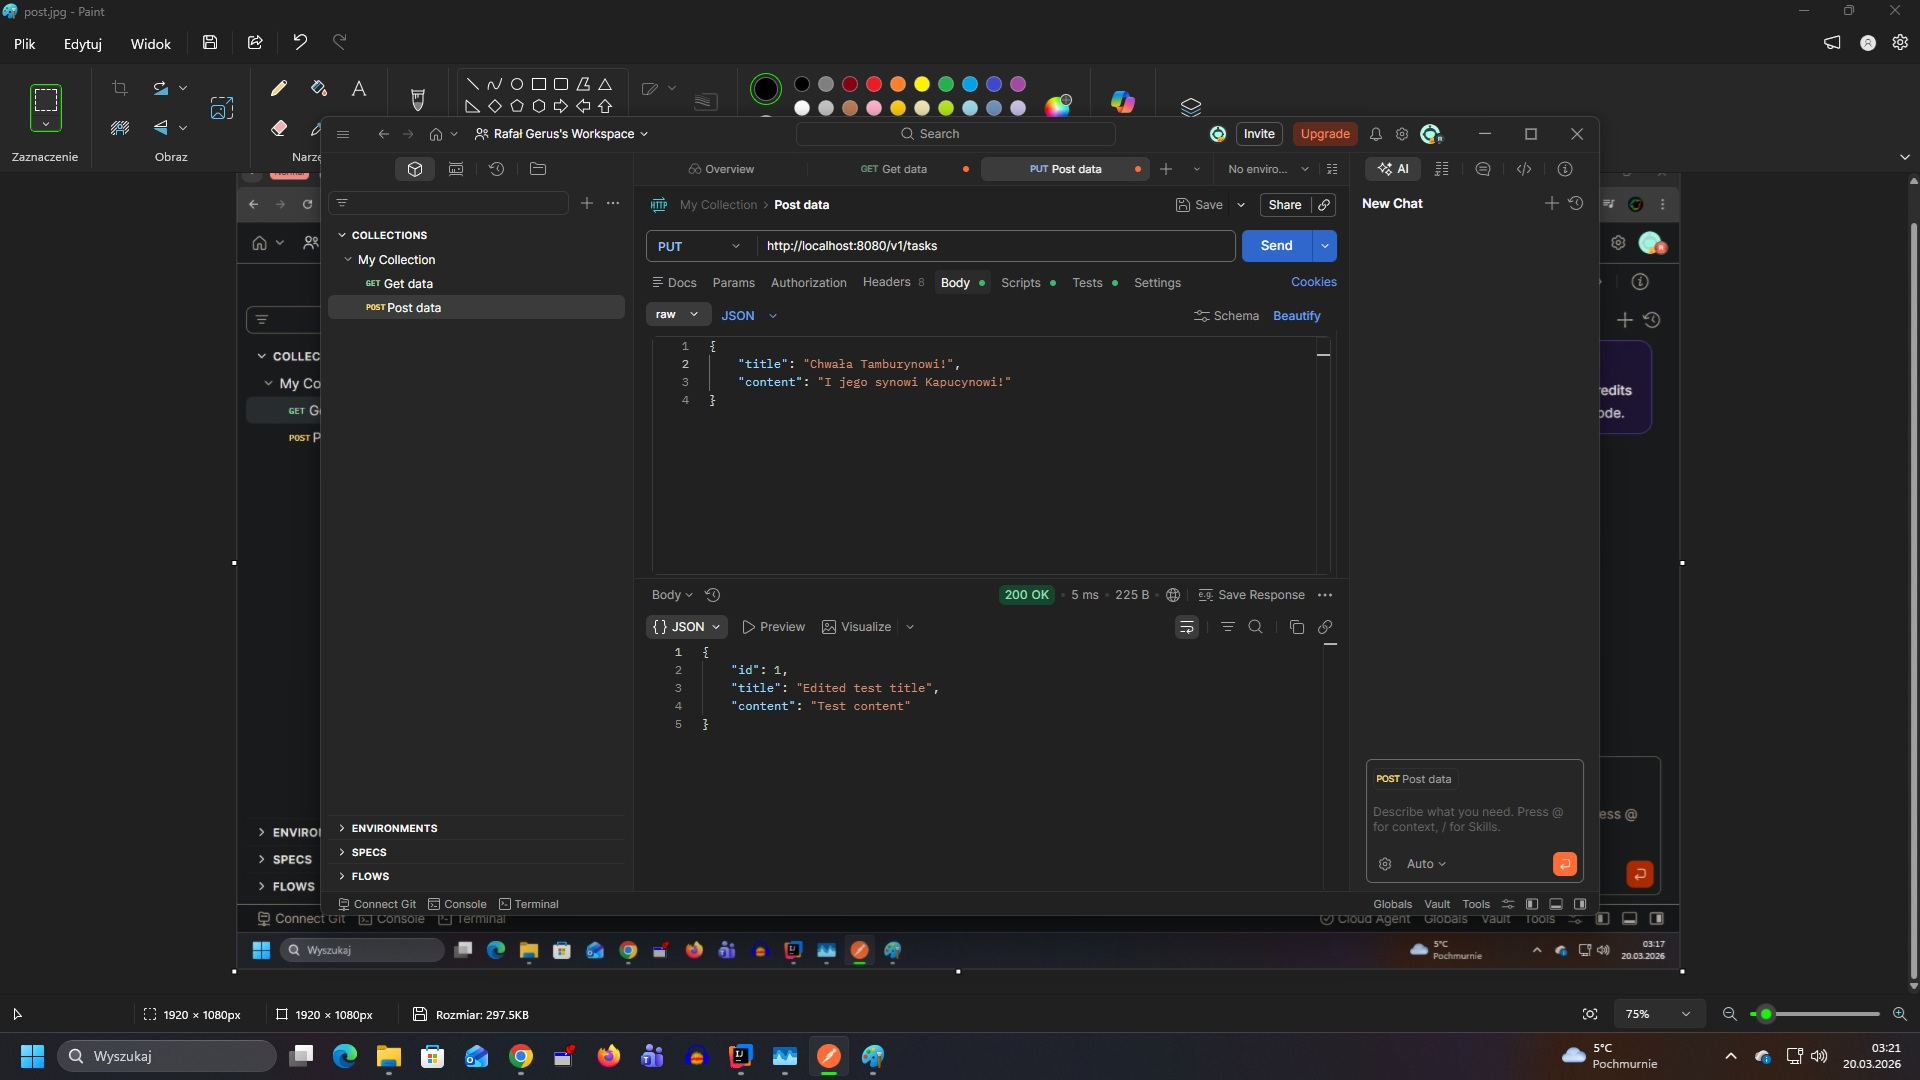
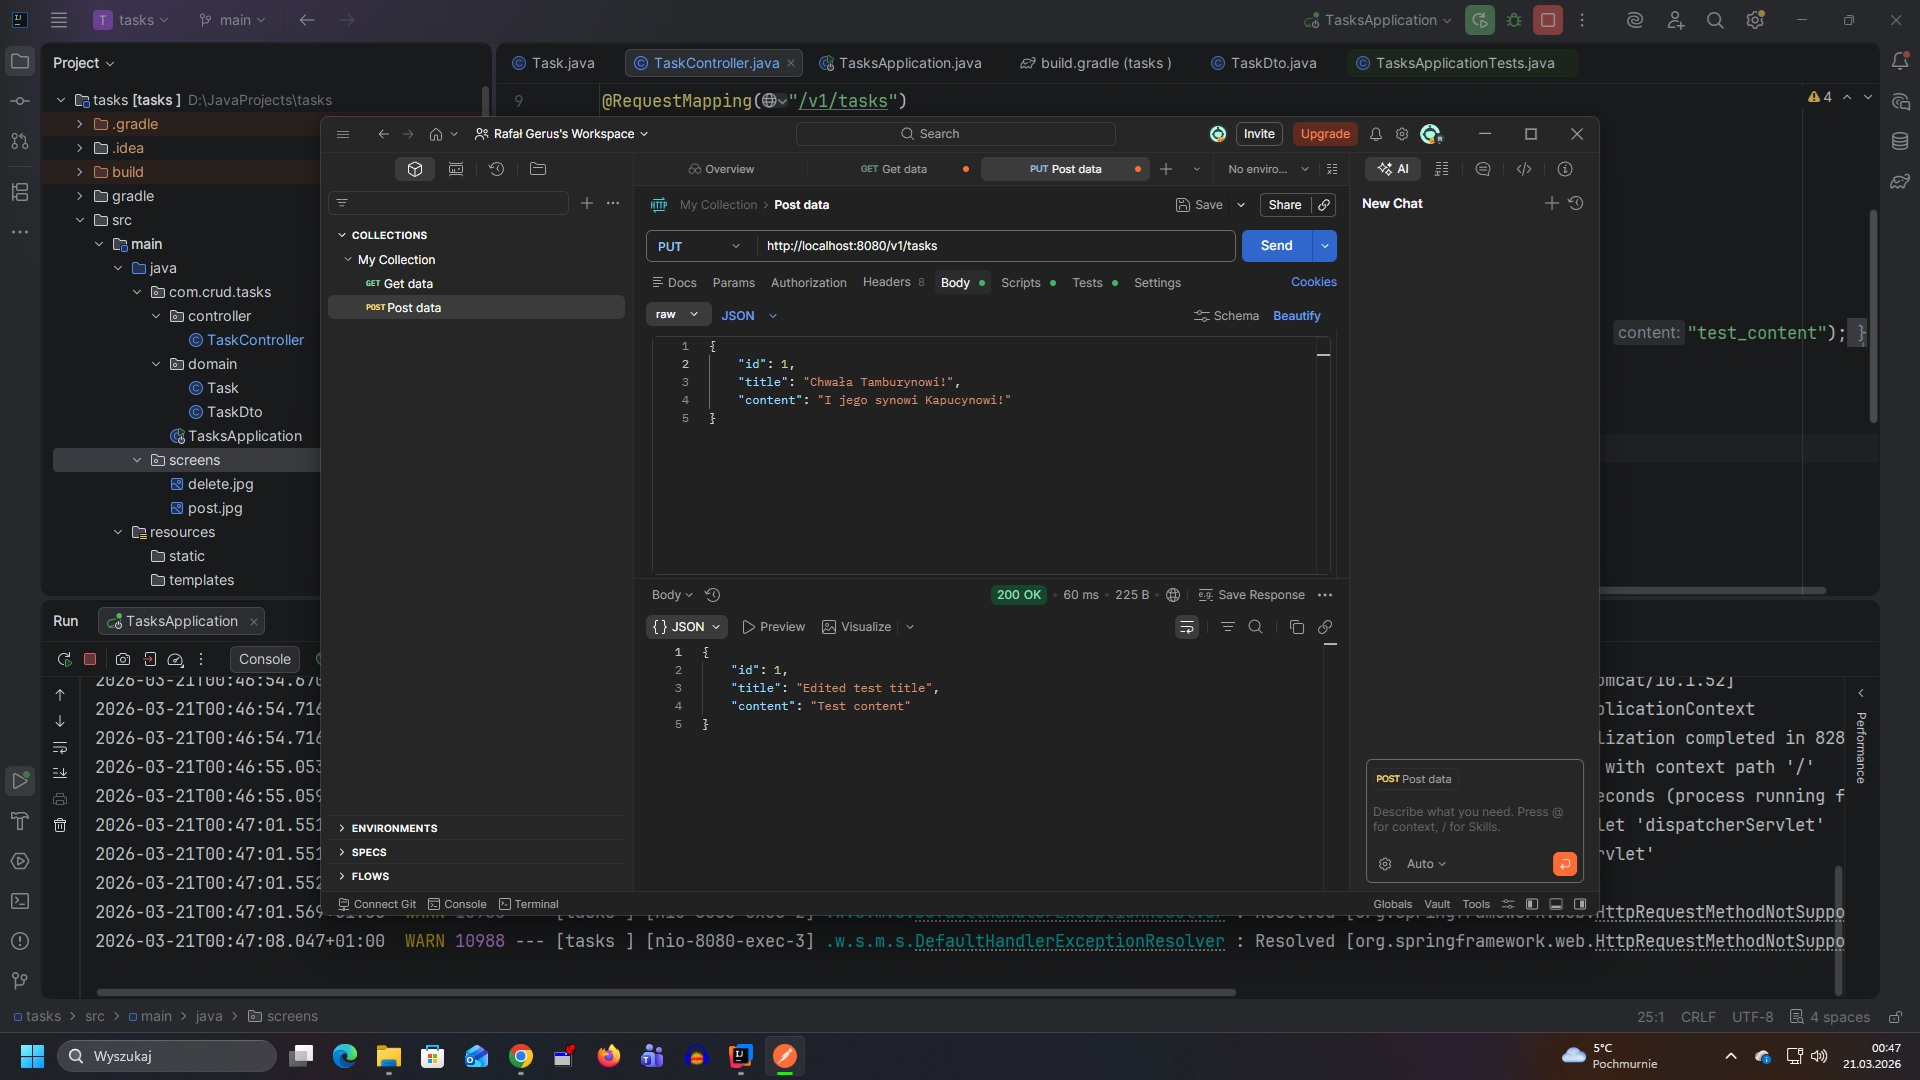
fixes

diff --git a/src/main/java/com/crud/tasks/controller/TaskController.java b/src/main/java/com/crud/tasks/controller/TaskController.java
@@ -21,7 +21,7 @@ public class TaskController {
     }
 
     @DeleteMapping(value = "/{taskId}")
-    public void deleteTask(Long taskId) {
+    public void deleteTask(@PathVariable Long taskId) {
 
     }
 